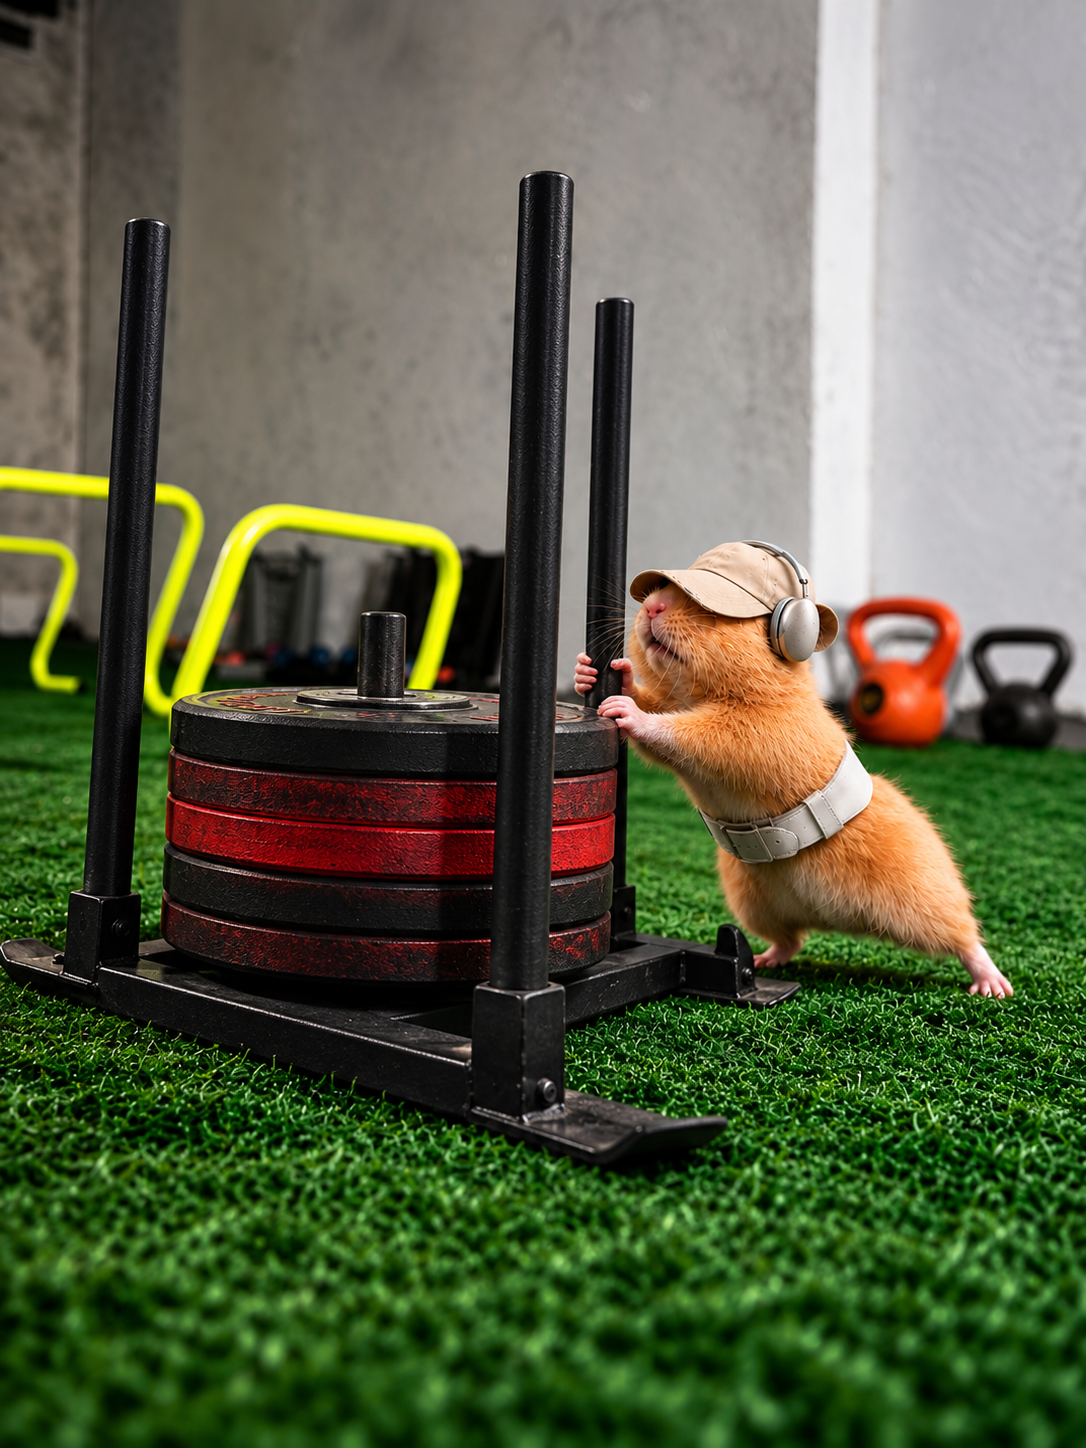
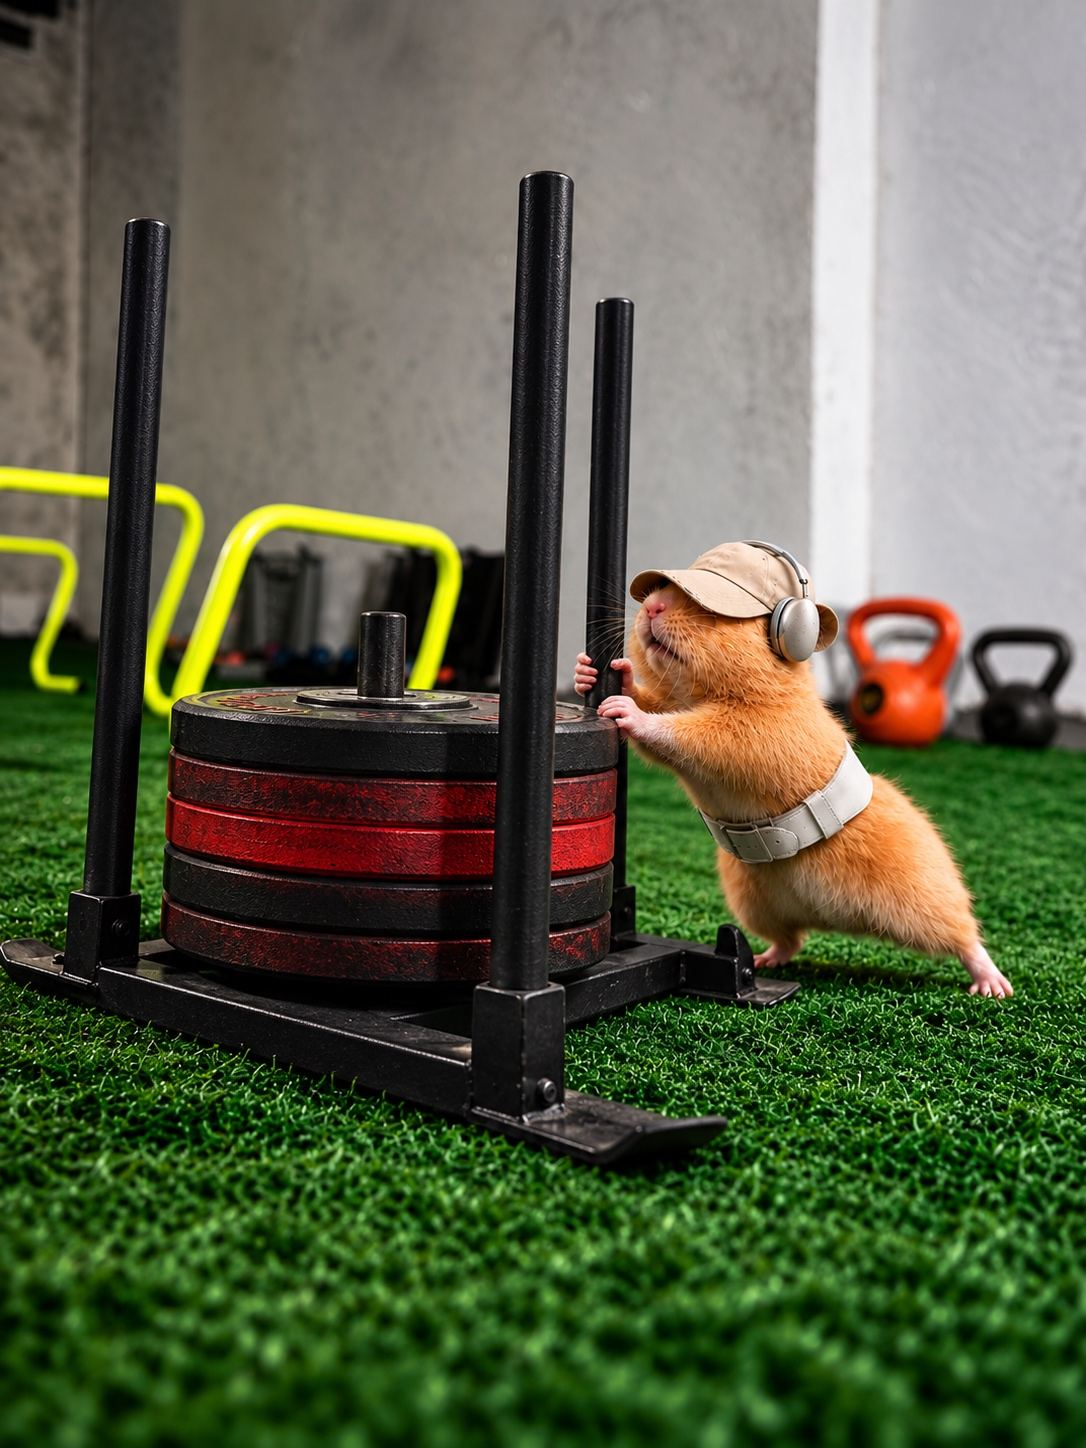
perf: convert photos to real compressed JPEGs (~2.3 MB -> ~205 KB each)
The 8 photos in public/images/gym and public/images/workouts were PNG
files with a .jpg name. Re-encoded as progressive JPEGs at the same
pixel size, same file names and case, so no paths change.
Also tidies next/image sizes for the gym and workout cards.

diff --git a/src/components/sections/WorkoutOptions.tsx b/src/components/sections/WorkoutOptions.tsx
@@ -171,11 +171,7 @@ export function WorkoutOptions() {
                 src={item.image}
                 alt={`${item.title} training at XFIT`}
                 fill
-                sizes="
-                  (max-width: 639px) 82vw,
-                  (max-width: 767px) 62vw,
-                  390px
-                "
+                sizes="(max-width: 639px) 82vw, (max-width: 767px) 62vw, (max-width: 1023px) 360px, 390px"
                 className="
                   object-cover
                   transition-transform

diff --git a/src/components/sections/GymExperience.tsx b/src/components/sections/GymExperience.tsx
@@ -152,7 +152,7 @@ export function GymExperience() {
                 src={item.image}
                 alt={item.alt}
                 fill
-                sizes="(max-width: 767px) 82vw, 33vw"
+                sizes="(max-width: 639px) 82vw, (max-width: 767px) 64vw, 33vw"
                 className="
                   object-cover
                   transition-transform
